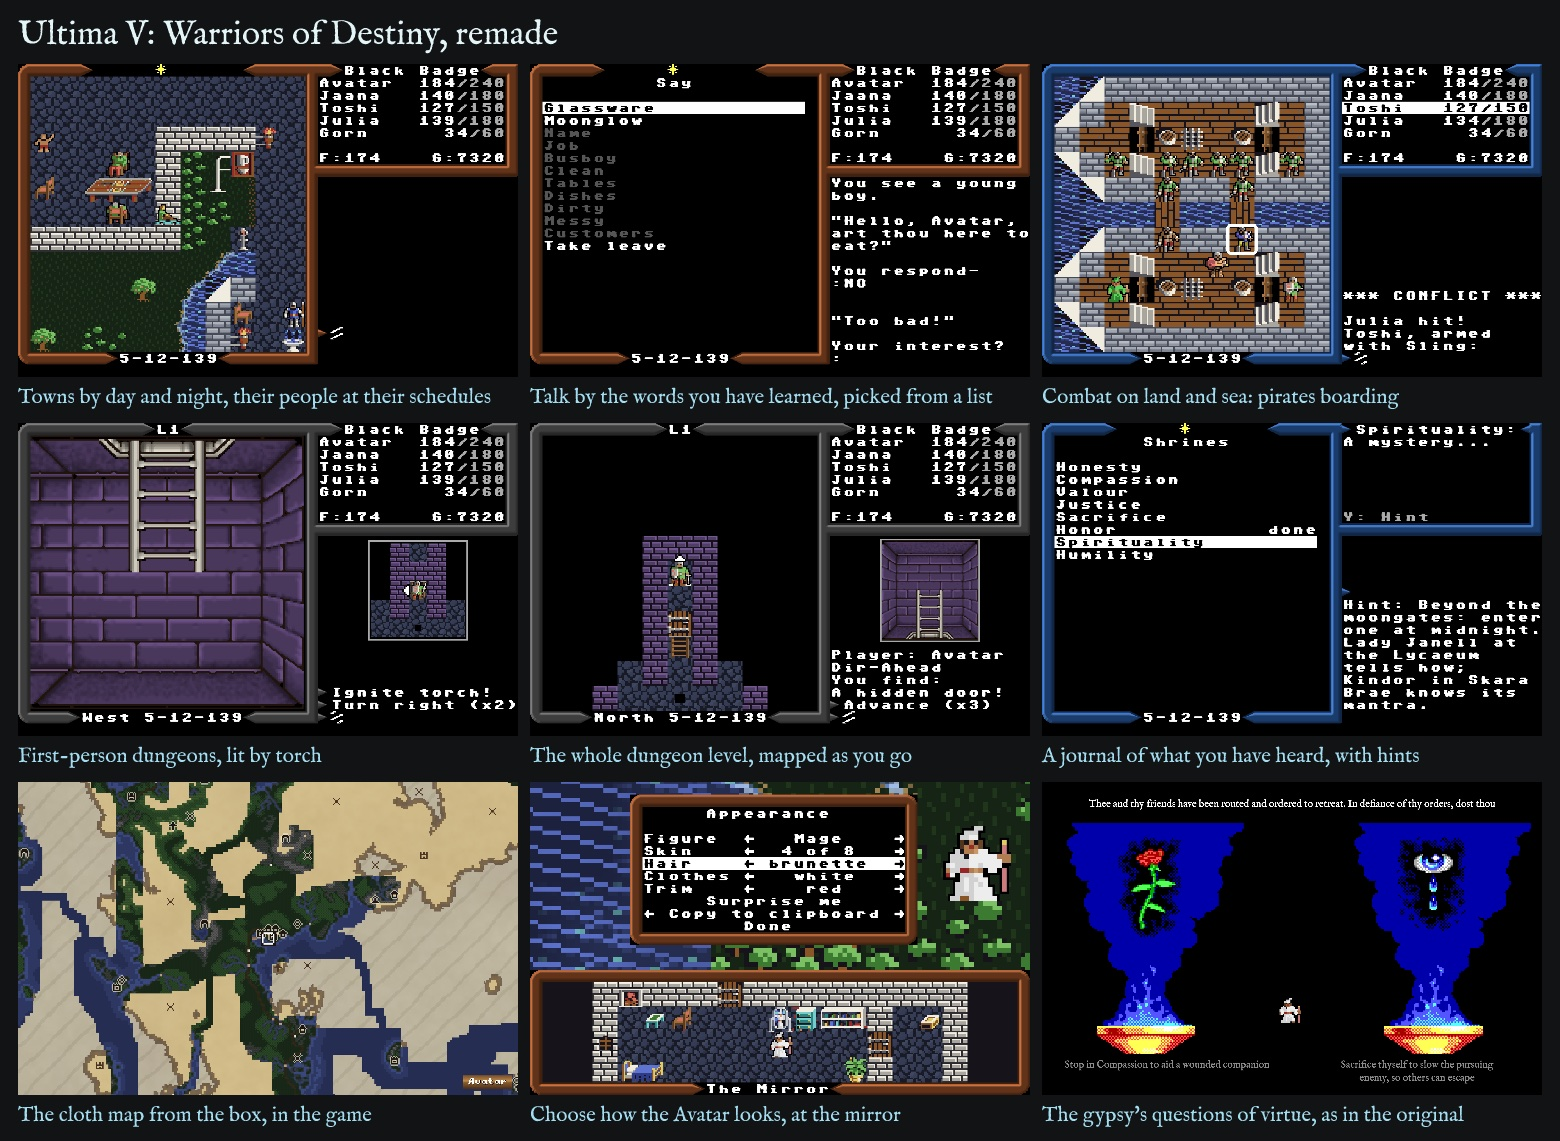
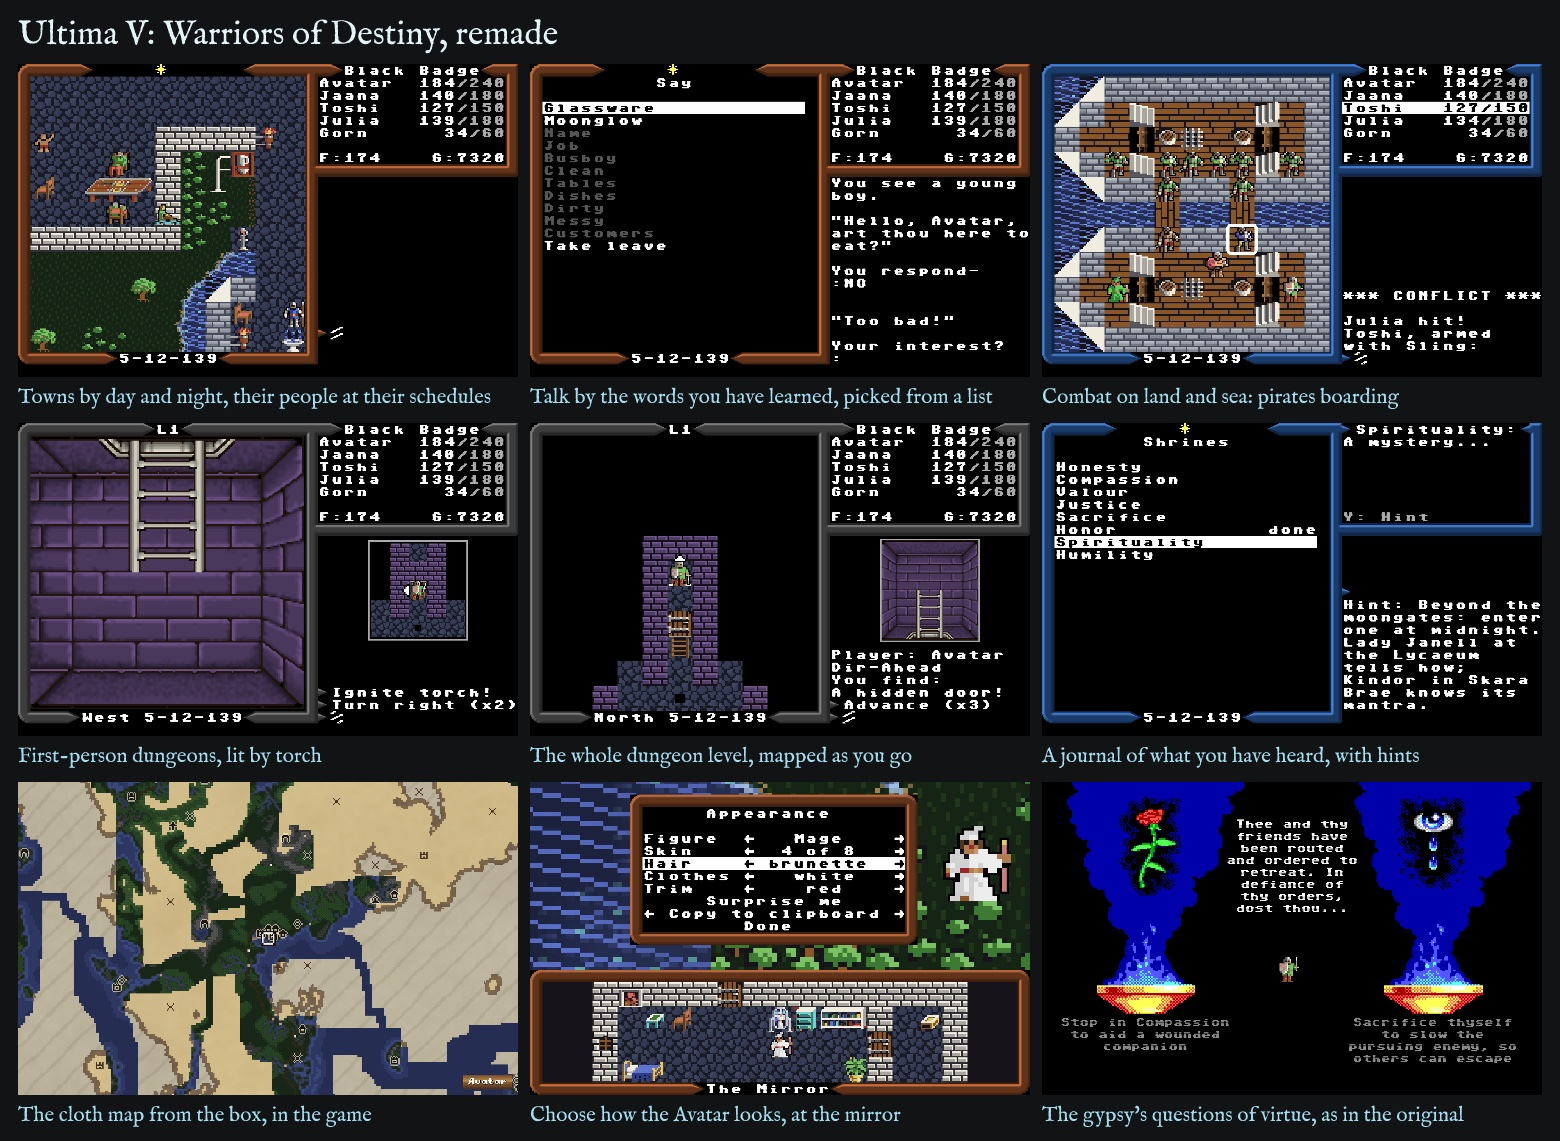
Gypsy's questions: between the braziers, in the game's lettering
The Standard look's gypsy screen, reworked:
- The question sits in the column between the two braziers, above the
  Avatar, on a dark panel just over the smoke's inner edges, instead of
  across the top. A question that runs on into its answers trails off
  ("...dost thou...").
- The braziers, bowls and Avatar are back where 1988 has them (the
  26-pixel drop for the question's top band is gone), so the answers
  have room for more lines.
- Each answer is centred under its brazier (the rims' centres, x 66 and
  250), where before the screen's halves were (80 and 240).
- Question and answers are set in the game's lettering (U5 Letters), at
  one size up to 24, shrinking only for the longest.

The PC (1988) look keeps 1988's pages. README promo sheet
(promo/features.jpg) rebuilt with the new screen.

Changed region(s): [[0.6769, 0.6748, 0.9846, 0.9509], [0.8, 0.8282, 0.8308, 0.8896]]

diff --git a/web/src/ui/storyText.ts b/web/src/ui/storyText.ts
@@ -17,18 +17,25 @@ const K = 4;
 const W = 320;
 const H = 200;
 
-/** A run of text to draw: its words, where its baseline starts (colour page pixels), its size, face and colour. */
+/** A face a run is set in: the story's body and its initials, or the game's own lettering (the gypsy's choices). */
+export type RunFace = 'body' | 'initial' | 'mono';
+
+/**
+ * A run of text to draw: its words, where its baseline starts (colour page pixels), its size, face and colour. Or,
+ * with `panel`, no words but a dark box (colour page pixels, x1 y1 x2 y2) for the words after it to stand on.
+ */
 export interface Run {
   text: string;
   x: number;
   y: number;
   size: number;
-  face: 'body' | 'initial';
+  face: RunFace;
   colour: number;
+  panel?: [number, number, number, number];
 }
 
 /** How wide `text` is at `size` in `face`, in colour page pixels (the screen's canvas measures). */
-export type Measure = (text: string, size: number, face: 'body' | 'initial') => number;
+export type Measure = (text: string, size: number, face: RunFace) => number;
 
 /** A paragraph: its words, each in the pieces the game marks where it may be broken ('_'). */
 interface Para {
@@ -76,8 +83,15 @@ interface Line {
 }
 
 /** A paragraph broken into lines of `width(i)` for line i, a word broken at a mark (with a hyphen) only when it must. */
-function breakLines(measure: Measure, size: number, para: Para, width: (i: number) => number, indent: number): Line[] {
-  const m = (s: string): number => measure(s, size, 'body');
+function breakLines(
+  measure: Measure,
+  size: number,
+  para: Para,
+  width: (i: number) => number,
+  indent: number,
+  face: RunFace = 'body',
+): Line[] {
+  const m = (s: string): number => measure(s, size, face);
   const space = m(' ');
   const lines: Line[] = [];
   let cur: string[] = [];
@@ -259,67 +273,95 @@ export function setProse(texts: string[], lit: Uint8Array, measure: Measure): Ru
   return runs;
 }
 
-/** The gypsy's bowls' columns (EGA pixels), left and right: the answers are set under them. */
-export const CHOICE_COLUMNS: [number, number][] = [
-  [6, 154],
-  [166, 314],
-];
 /**
- * How far the Standard look lowers the gypsy's braziers on every question (EGA pixels), the same each time so they
- * never move: the question goes in the band above them, the answers under the bowls (intro.ts dilemma, the stage).
+ * The gypsy's bowls' columns (EGA pixels), left and right: the answers are set under them, each centred on its
+ * brazier (the braziers' rims span 35-97 and 219-281: centres 66 and 250), as wide as the screen's edge allows.
  */
-export const GYPSY_DROP = 26;
-/** The band under the bowls the answers go in, and the band above the braziers the question does (EGA pixels). */
-const CHOICE_TOP = 150 + GYPSY_DROP;
+export const CHOICE_COLUMNS: [number, number][] = [
+  [6, 126],
+  [190, 310],
+];
+/** The band under the bowls the answers go in (EGA pixels). */
+const CHOICE_TOP = 150;
 const CHOICE_BOTTOM = 197;
-const QUESTION_TOP = 2;
-const QUESTION_BOTTOM = GYPSY_DROP - 1;
+/**
+ * The column between the bowls' smoke the question goes in, and its band above the Avatar (EGA pixels): a little
+ * wider than the gap between the smoke, its dark panel just over the smoke's inner edges (the port's).
+ */
+const QUESTION_LEFT = 106;
+const QUESTION_RIGHT = 214;
+const QUESTION_TOP = 4;
+const QUESTION_BOTTOM = 104;
+/** The panel's margin about the question's lines (EGA pixels). */
+const PANEL_MARGIN = 3;
+/** The largest the choices are set in the game's lettering, and the smallest before they give up (colour page pixels). */
+const CHOICE_LARGEST = 24;
+const CHOICE_SMALLEST = 14;
 
 /** The narrowest width a paragraph keeps its number of lines in: its lines as even as they go (no word left alone). */
-function balanced(measure: Measure, size: number, para: Para, width: number): Line[] {
-  const lines = breakLines(measure, size, para, () => width, 0);
+function balanced(measure: Measure, size: number, para: Para, width: number, face: RunFace = 'body'): Line[] {
+  const lines = breakLines(measure, size, para, () => width, 0, face);
   if (lines.length < 2) return lines;
   let best = lines;
   for (let w = width - 8; w > width / 2; w -= 8) {
-    const tried = breakLines(measure, size, para, () => w, 0);
+    const tried = breakLines(measure, size, para, () => w, 0, face);
     if (tried.length !== lines.length) break;
     best = tried;
   }
   return best;
 }
 
+/** A question that runs on into its answers ("...Dost thou"), trailing off as it does: "Dost thou...". */
+const trailing = (t: string): string => (/[.?!:]$/.test(t.trimEnd()) ? t : `${t.trimEnd()}...`);
+
 /** An answer set on its own: its first letter capital, the punctuation that ran it on into the question gone. */
 const answer = (t: string): string => t.replace(/[\s?;,.]+$/, '').replace(/^./, (c) => c.toUpperCase());
 
 /**
- * The gypsy's question as the Standard look sets it: the question across the top of the page, over the braziers, and
- * each answer centred under its bowl - grey, or white for the one the Avatar stands at (`lit`: 0 the left, 1 the
- * right, -1 neither) - both at the one size, the largest at which each fits its band.
+ * The gypsy's question as the Standard look sets it, in the game's own lettering: the question in the column between
+ * the bowls, above the Avatar, on a dark panel over the smoke's inner edges; and each answer centred under its bowl -
+ * grey, or white for the one the Avatar stands at (`lit`: 0 the left, 1 the right, -1 neither) - all at the one
+ * size, the largest at which each fits its band.
  */
 export function setChoice(question: string, left: string, right: string, lit: number, measure: Measure): Run[] {
   const answers = [left, right].map((t) => ({ indent: false, words: words(answer(t)) }));
-  const q = { indent: false, words: words(question) };
-  for (let size = 26; ; size--) {
+  const q = { indent: false, words: words(trailing(question)) };
+  for (let size = CHOICE_LARGEST; ; size--) {
     const lh = size * LEADING;
-    const cols = answers.map((a, i) => balanced(measure, size, a, (CHOICE_COLUMNS[i][1] - CHOICE_COLUMNS[i][0]) * K));
-    const ql = balanced(measure, size, q, (W - 12) * K);
+    const cols = answers.map((a, i) => balanced(measure, size, a, (CHOICE_COLUMNS[i][1] - CHOICE_COLUMNS[i][0]) * K, 'mono'));
+    const ql = balanced(measure, size, q, (QUESTION_RIGHT - QUESTION_LEFT - 2 * PANEL_MARGIN) * K, 'mono');
     const answerLines = Math.max(...cols.map((c) => c.length));
-    const fits = answerLines * lh <= (CHOICE_BOTTOM - CHOICE_TOP) * K && ql.length * lh <= (QUESTION_BOTTOM - QUESTION_TOP) * K;
-    if (!fits && size > 12) continue;
+    const fits =
+      answerLines * lh <= (CHOICE_BOTTOM - CHOICE_TOP) * K && ql.length * lh <= (QUESTION_BOTTOM - QUESTION_TOP - 2 * PANEL_MARGIN) * K;
+    if (!fits && size > CHOICE_SMALLEST) continue;
     const runs: Run[] = [];
     const centred = (text: string, c1: number, c2: number, y: number, colour: number): void => {
-      const w = measure(text, size, 'body');
-      runs.push({ text, x: ((c1 + c2) * K) / 2 - w / 2, y, size, face: 'body', colour });
+      const w = measure(text, size, 'mono');
+      runs.push({ text, x: ((c1 + c2) * K) / 2 - w / 2, y, size, face: 'mono', colour });
     };
+    // The question in the middle of its band, on its panel: as wide as its widest line, and its lines' height.
+    const qHeight = ql.length * lh;
+    const qTop = QUESTION_TOP * K + Math.max(0, ((QUESTION_BOTTOM - QUESTION_TOP) * K - qHeight) / 2);
+    const widest = Math.max(...ql.map((ln) => measure(ln.pieces.join(' '), size, 'mono')));
+    const mid = ((QUESTION_LEFT + QUESTION_RIGHT) * K) / 2;
+    const m = PANEL_MARGIN * K;
+    runs.push({
+      text: '',
+      x: 0,
+      y: 0,
+      size,
+      face: 'mono',
+      colour: 0,
+      panel: [mid - widest / 2 - m, qTop - m, mid + widest / 2 + m, qTop + qHeight + m],
+    });
+    ql.forEach((ln, j) => centred(ln.pieces.join(' '), QUESTION_LEFT, QUESTION_RIGHT, qTop + j * lh + size, WHITE));
+    // Each answer under its bowl, at the top of its band.
     const top = CHOICE_TOP * K;
     cols.forEach((lines, i) =>
       lines.forEach((ln, j) =>
         centred(ln.pieces.join(' '), CHOICE_COLUMNS[i][0], CHOICE_COLUMNS[i][1], top + j * lh + size, lit === i ? WHITE : GREY),
       ),
     );
-    // The question in the middle of its band.
-    const qTop = QUESTION_TOP * K + Math.max(0, ((QUESTION_BOTTOM - QUESTION_TOP) * K - ql.length * lh) / 2);
-    ql.forEach((ln, j) => centred(ln.pieces.join(' '), 6, W - 6, qTop + j * lh + size, WHITE));
     return runs;
   }
 }

diff --git a/web/tests/storytext.test.ts b/web/tests/storytext.test.ts
@@ -1,5 +1,5 @@
 import { describe, expect, it } from 'vitest';
-import { clearSpaces, COPPER, GREY, GYPSY_DROP, paragraphs, setChoice, setProse, WHITE, type Measure } from '../src/ui/storyText';
+import { clearSpaces, COPPER, GREY, paragraphs, setChoice, setProse, WHITE, type Measure } from '../src/ui/storyText';
 
 /**
  * The Standard look's story pages (storyText.ts): a page's prose set in one block in its clearest space, its first
@@ -63,25 +63,62 @@ describe('the story pages set in the Standard look', () => {
     ).toBeNull();
   });
 
-  it("sets the gypsy's question across the top, and the answers under their bowls, grey but for the one the Avatar stands at", () => {
+  it("sets the gypsy's question between the bowls on a panel, the answers under them, in the game's lettering", () => {
     const runs = setChoice('Thou art sworn to a Lord. Dost thou', 'break thine oath by speaking;', 'uphold Honor by silence?', 0, measure);
-    const left = runs.filter((r) => r.x < 160 * 4 && r.colour !== WHITE && r.text !== 'Dost thou');
+    const words = runs.filter((r) => !r.panel);
+    expect(words.every((r) => r.face === 'mono')).toBe(true); // the game's own lettering
     const lit = runs.find((r) => r.text.startsWith('Break'))!;
     expect(lit.colour).toBe(WHITE); // capitalised, its ';' gone, and white
     expect(lit.text.endsWith(';')).toBe(false);
-    expect(left).toHaveLength(0);
+    expect(lit.x + measure(lit.text, lit.size, 'mono')).toBeLessThan(160 * 4); // under the left bowl
+    // Each answer centred on its brazier: the rims' middles, 66 and 250.
+    const middle = (r: { x: number; text: string; size: number }): number => (r.x + measure(r.text, r.size, 'mono') / 2) / 4;
+    expect(middle(lit)).toBeCloseTo(66, 0);
     const right = runs.find((r) => r.text.startsWith('Uphold'))!;
     expect(right.colour).toBe(GREY);
     expect(right.text.endsWith('?')).toBe(false);
     expect(right.x).toBeGreaterThan(160 * 4);
-    const question = runs.filter((r) => r.text.includes('Lord') || r.text.includes('Dost'));
-    // The question over the braziers, the answers under the bowls, as far down as the braziers are lowered.
-    expect(Math.max(...question.map((r) => r.y))).toBeLessThan(GYPSY_DROP * 4);
-    expect(Math.min(lit.y, right.y) - lit.size).toBeGreaterThanOrEqual((150 + GYPSY_DROP) * 4);
+    expect(middle(right)).toBeCloseTo(250, 0);
+    // The question in the column between the bowls, above the Avatar (112), on its dark panel; the answers under the
+    // bowls, where 1988 has the braziers (no longer lowered).
+    const question = words.filter((r) => r.text.includes('Lord') || r.text.includes('Dost') || r.text.includes('sworn'));
+    expect(question.length).toBeGreaterThan(0);
+    for (const r of question) {
+      expect(r.x).toBeGreaterThanOrEqual(106 * 4);
+      expect(r.x + measure(r.text, r.size, 'mono')).toBeLessThanOrEqual(214 * 4);
+      expect(r.y).toBeLessThan(104 * 4);
+    }
+    const panel = runs.find((r) => r.panel)!.panel!;
+    for (const r of question) {
+      expect(r.y - r.size).toBeGreaterThanOrEqual(panel[1]);
+      expect(r.y).toBeLessThanOrEqual(panel[3]);
+    }
+    expect(runs.indexOf(runs.find((r) => r.panel)!)).toBeLessThan(runs.indexOf(question[0])); // drawn under them
+    expect(Math.min(lit.y, right.y) - lit.size).toBeGreaterThanOrEqual(150 * 4);
     expect(
       setChoice('Q', 'a', 'b', -1, measure)
         .filter((r) => r.colour === WHITE)
         .map((r) => r.text),
-    ).toEqual(['Q']);
+    ).toEqual(['Q...']);
+    // A question that ends as a sentence does keeps its own stop.
+    expect(setChoice('Which?', 'a', 'b', -1, measure).find((r) => r.colour === WHITE)?.text).toBe('Which?');
+  });
+
+  it("fits the longest of the gypsy's questions, and answers on two lines, in their bands", () => {
+    const q =
+      'Thee and thy friend are valiant but penniless warriors. Thou both go out to slay a mighty dragon. Thy friend thinks he slew it, thee did. When asked, dost thou';
+    const runs = setChoice(
+      q,
+      'stop in Compassion to aid a wounded companion,',
+      'sacrifice thyself to slow the pursuing enemy, so others can escape?',
+      1,
+      measure,
+    );
+    const words = runs.filter((r) => !r.panel);
+    expect(words.map((r) => r.text).join(' ')).toContain('dost thou...'); // running on into the answers: trailing off
+    for (const r of words) expect(r.y).toBeLessThanOrEqual(197 * 4);
+    const answer = words.filter((r) => r.y > 150 * 4);
+    expect(answer.length).toBeGreaterThanOrEqual(3); // an answer of more than one line
+    expect(words[0].size).toBeGreaterThan(14); // not given up on: set at a size that fits
   });
 });

diff --git a/web/src/ui/screen.ts b/web/src/ui/screen.ts
@@ -38,7 +38,7 @@ import {
 import { type PictureKind, restyle, twice, type WallOf } from './standardPictures.ts';
 import type { Tiles } from '../game/settings.ts';
 import type { StandardArt } from './standardArt.ts';
-import { GYPSY_DROP, setChoice, setProse, type Measure, type Run } from './storyText.ts';
+import { setChoice, setProse, type Measure, type Run, type RunFace } from './storyText.ts';
 import { Text, type TextTarget } from './text.ts';
 
 /** The DOS timer's tick; the game animated about once per tick while waiting for a key. */
@@ -68,6 +68,11 @@ const FACES: Record<Face, { family: string; file: string; share: number; bold: n
   // Not a font: the game's own symbols, filled from their outlines (symbolPath).
   symbol: { family: '', file: '', share: 1, bold: 0 },
 };
+
+/** The family a run of words is set in: the story's body or initials, or the game's lettering (FACES.mono). */
+const runFamily = (face: RunFace): string => (face === 'body' ? BODY_FACE : face === 'initial' ? INITIAL_FACE : FACES.mono.family);
+/** The dark box the gypsy's question stands on over the smoke (storyText.ts setChoice): the smoke still seen through. */
+const PANEL = 'rgba(0, 0, 0, 0.72)';
 
 /** The picture enlarged by the sharpened smoothing (?scale=smooth), to compare with the nearest pixel (show). */
 const SMOOTH = typeof location !== 'undefined' && new URLSearchParams(location.search).get('scale') === 'smooth';
@@ -392,7 +397,14 @@ export class Screen implements Platform {
     for (const { run, alpha } of words) {
       if (alpha <= 0) continue;
       ctx.globalAlpha = Math.min(1, alpha);
-      ctx.font = `${run.size}px "${run.face === 'body' ? BODY_FACE : INITIAL_FACE}"`;
+      if (run.panel) {
+        // A dark box for the words after it (the gypsy's question over the smoke).
+        const [x1, y1, x2, y2] = run.panel;
+        ctx.fillStyle = PANEL;
+        ctx.fillRect(x1, y1, x2 - x1, y2 - y1);
+        continue;
+      }
+      ctx.font = `${run.size}px "${runFamily(run.face)}"`;
       ctx.fillStyle = `#${run.colour.toString(16).padStart(6, '0')}`;
       ctx.fillText(run.text, run.x, run.y);
     }
@@ -653,7 +665,7 @@ export class Screen implements Platform {
     const ctx = this.storyCanvas;
     if (!ctx) return null;
     const measure: Measure = (text, size, face) => {
-      ctx.font = `${size}px "${face === 'body' ? BODY_FACE : INITIAL_FACE}"`;
+      ctx.font = `${size}px "${runFamily(face)}"`;
       return ctx.measureText(text).width;
     };
     return { ctx, measure };
@@ -663,7 +675,7 @@ export class Screen implements Platform {
   private drawRuns(measure: Measure, runs: Run[], page: number): void {
     const words: Words[] = runs.map((run) => ({
       run,
-      box: [run.x, run.y - run.size * 1.1, run.x + measure(run.text, run.size, run.face), run.y + run.size * 0.45],
+      box: run.panel ?? [run.x, run.y - run.size * 1.1, run.x + measure(run.text, run.size, run.face), run.y + run.size * 0.45],
       alpha: 1,
     }));
     this.fb.addWords(page, words);
@@ -732,9 +744,8 @@ export class Screen implements Platform {
         if (!story) return false;
         const was = fb.page;
         fb.page = 0;
-        // The band under the bowls, and the band above the braziers, as the picture leaves them: black.
-        fb.fill(0, 149 + GYPSY_DROP, WIDTH - 1, HEIGHT - 1, 0);
-        fb.fill(0, 0, WIDTH - 1, GYPSY_DROP - 1, 0);
+        // The band under the bowls, as the picture leaves it: black.
+        fb.fill(0, 149, WIDTH - 1, HEIGHT - 1, 0);
         fb.page = was;
         this.drawRuns(story.measure, setChoice(question, left, right, lit, story.measure), 0);
         return true;

diff --git a/web/src/game/intro.ts b/web/src/game/intro.ts
@@ -10,7 +10,6 @@
 
 import { loadResource } from '../data/images.ts';
 import { Colour } from '../ui/colours.ts';
-import { GYPSY_DROP } from '../ui/storyText.ts';
 import { blinker, waitMark } from './waitMark.ts';
 import { leftArrow, rightArrow, updateFrame } from './frame.ts';
 import { Game } from './game.ts';
@@ -130,15 +129,15 @@ const walking = (now: number): number => AVATAR_WALKING + (Math.floor(now / (TIC
 
 /**
  * The gypsy's stage (EGA pixels): the Avatar between the bowls, at each bowl, and each bowl's flame - on the braziers
- * as the Standard look lowers them (GYPSY_DROP), the only look the stage is.
+ * where 1988 has them, in the Standard look, the only look the stage is (its question between the bowls above it).
  */
 const STAGE = {
-  y: 112 + GYPSY_DROP,
+  y: 112,
   centre: 150,
   bowls: [58, 242],
   fires: [
-    [44, 86 + GYPSY_DROP, 50, 42],
-    [228, 86 + GYPSY_DROP, 50, 42],
+    [44, 86, 50, 42],
+    [228, 86, 50, 42],
   ] as [number, number, number, number][],
 };
 
@@ -989,27 +988,25 @@ export class Intro {
     const [lo, hi, first] = a > b ? [b, a, 0x42] : [a, b, 0x41];
     const cx = g.data.bytes(0x51fc, 8);
     const cy = g.data.bytes(0x5204, 8);
-    // The braziers and their virtues, lowered by `drop` (the Standard look's page, its question over them).
-    const page = (drop: number): void => {
+    // The braziers and their virtues, where 1988 has them.
+    const page = (): void => {
       fx.page(1);
       g.printChar(0xff);
-      fx.image(cards, 1, 0x10, drop);
-      fx.image(cards, 1, 200, drop);
-      fx.image(cards, lo + 2, cx[lo], cy[lo] + drop);
-      fx.image(cards, hi + 2, cx[hi] + 0xb8, cy[hi] + drop);
+      fx.image(cards, 1, 0x10, 0);
+      fx.image(cards, 1, 200, 0);
+      fx.image(cards, lo + 2, cx[lo], cy[lo]);
+      fx.image(cards, hi + 2, cx[hi] + 0xb8, cy[hi]);
       fx.transfer(1, 0, 0, 0, 319, 199);
     };
     const words = this.fileText('QUESTION.DAT', g.data.words(0x517c + a * 16, 8)[b]);
     // A is always the left card's answer - the lower virtue's, whichever of the two was drawn first - and B the right.
     const split = splitQuestion(words.replace(/_/g, ''));
-    const standard = !!split && g.options.tileSet === 'standard';
-    page(standard ? GYPSY_DROP : 0);
+    page();
     let k: number;
     if (split && fx.choice?.(split.question, split.a, split.b, -1)) {
       // The Standard look: the Avatar walked to a bowl, and A taken there.
       k = (await this.chooseBowl(split.question, split.a, split.b)) === 0 ? 0x41 : 0x42;
     } else {
-      if (standard) page(0); // the words set as 1988 set them, under the braziers where 1988 had them
       this.proseText(words);
       fx.transfer(1, 0, 0, 0, 319, 199);
       do {

diff --git a/docs/features.md b/docs/features.md
@@ -248,11 +248,13 @@ describes how the Modern look is drawn.
   colour as enamel would, the shield the trim's.
 - **Thine Adventure**: Modern, Classic (as in 1988) or Story, the rules
   (see Difficulty and options), changed afterwards in Gameplay.
-- **The gypsy's questions** are answered on the screen: each answer under
-  the bowl of its virtue's card; the d-pad walks the Avatar from between
-  the bowls to one, its fire stirring and its answer turning white, and A
-  (or Return, or Z) takes it. The PC (1988) look keeps 1988's pages and its
-  A and B.
+- **The gypsy's questions** are answered on the screen, in the game's own
+  lettering: the question between the two braziers, on a dark panel above
+  the Avatar, trailing off ("...dost thou...") where it runs on into its
+  answers; each answer centred under its virtue's brazier, on as many lines
+  as it needs; the d-pad walks the Avatar from between the bowls to one,
+  its fire stirring and its answer turning white, and A (or Return, or Z)
+  takes it. The PC (1988) look keeps 1988's pages and its A and B.
 
 ## Controls and menus
 
